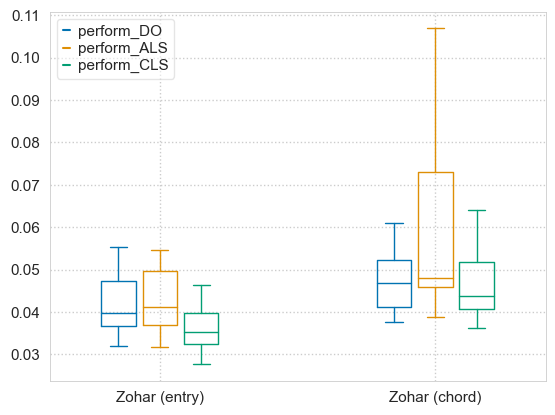
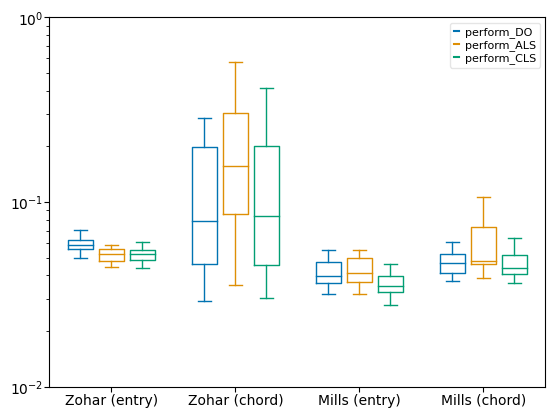
update figure 2c

Changed region(s): [[0.0, 0.0289, 1.0, 0.9831], [0.1225, 0.1446, 0.5207, 0.8964]]

diff --git a/timpute/figures/figure2-3.py b/timpute/figures/figure2-3.py
@@ -88,104 +88,113 @@ def figure23(simulated=True, zohar=True, mills=True):
         
 
 
-def figure2_graph():
-    ax, f = getSetup((12,6), (1,2))
-    dirname = f"timpute/figures/saves/figure2"
+def figure2_graph(simulated=True, real=True):
+    if simulated is True:
+        dirname = f"timpute/figures/saves/figure2"
+        ax, f = getSetup((12,6), (1,2))
+        savename = "/simulated/"
 
-    savename = "/simulated/"
-    
-    for mID, m in enumerate(methods):
-        impType = 'entry'
-        run, _ = loadMultiImputation(impType, m, dirname+savename)
-        # figure 2a
-        q2x_plot(ax[0], methodname = m.__name__,
-                imputed_arr = run.entry_imputed, fitted_arr = run.entry_fitted, total_arr = run.entry_total,
-                plot_impute = True, plot_total = False,
-                showLegend = True,
-                offset = -0.1 + (mID*0.1),
-                color = rgbs(mID, 0.7),
-                logbound = -4)
+        for mID, m in enumerate(methods):
+            impType = 'entry'
+            run, _ = loadMultiImputation(impType, m, dirname+savename)
+            # figure 2a
+            q2x_plot(ax[0], methodname = m.__name__,
+                    imputed_arr = run.entry_imputed, fitted_arr = run.entry_fitted, total_arr = run.entry_total,
+                    plot_impute = True, plot_total = False,
+                    showLegend = True,
+                    offset = -0.1 + (mID*0.1),
+                    color = rgbs(mID, 0.7),
+                    logbound = -4)
+            
+            impType = 'chord'
+            run, _ = loadMultiImputation(impType, m, dirname+savename)
+            # figure 2b
+            q2x_plot(ax[1], methodname = m.__name__,
+                    imputed_arr = run.chord_imputed, fitted_arr = run.chord_fitted, total_arr = run.chord_total,
+                    plot_impute = True, plot_total = False,
+                    showLegend = False,
+                    offset = -0.1 + (mID*0.1),
+                    color = rgbs(mID, 0.7),
+                    logbound = -4)
         
-        impType = 'chord'
-        run, _ = loadMultiImputation(impType, m, dirname+savename)
-        # figure 2b
-        q2x_plot(ax[1], methodname = m.__name__,
-                imputed_arr = run.chord_imputed, fitted_arr = run.chord_fitted, total_arr = run.chord_total,
-                plot_impute = True, plot_total = False,
-                showLegend = False,
-                offset = -0.1 + (mID*0.1),
-                color = rgbs(mID, 0.7),
-                logbound = -4)
-
-    f.savefig(dirname+'.png', bbox_inches="tight", format='png')
+        dirname = f"timpute/figures/saves/figure2"
+        f.savefig(dirname+'.png', bbox_inches="tight", format='png')
     
+
     #################################
 
-    # figure 2c
-    savename = "/zohar/"
-    data = dict()
-
-    impType = 'entry'
-    for mID, m in enumerate(methods):
-        tmplist = list()
-        run, _ = loadImputation(impType, m, dirname+savename)
-        impMatrix = run.entry_imputed
-        impDist = impMatrix[:, np.median(impMatrix, axis=0).argmin()]
-        tmplist.append(impDist)
-        data[m.__name__] = tmplist
-        print(np.median(impMatrix, axis=0).argmin())
-        # 7, 7, 7
-
-    impType = 'chord'
-    for mID, m in enumerate(methods):
-        run, _ = loadImputation(impType, m, dirname+savename)
-        impMatrix = run.chord_imputed
-        impDist = impMatrix[:, np.median(impMatrix, axis=0).argmin()]
-        data[m.__name__].append(impDist)
-        print(np.median(impMatrix, axis=0).argmin())
-        # 6, 2, 6       
     
-    savename = "/mills/"
+    if real is True:
+        # figure 2c
+        dirname = f"timpute/figures/saves/figure2"
+        savename = "/zohar/"
+        data = dict()
 
-    impType = 'entry'
-    for mID, m in enumerate(methods):
-        tmplist = list()
-        run, _ = loadImputation(impType, m, dirname+savename)
-        impMatrix = run.entry_imputed
-        impDist = impMatrix[:, np.median(impMatrix, axis=0).argmin()]
-        tmplist.append(impDist)
-        data[m.__name__] = tmplist
-        print(np.median(impMatrix, axis=0).argmin())
-        # 7, 4, 7
+        impType = 'entry'
+        for mID, m in enumerate(methods):
+            tmplist = list()
+            run, _ = loadImputation(impType, m, dirname+savename)
+            impMatrix = run.entry_imputed
+            impDist = impMatrix[:, np.median(impMatrix, axis=0).argmin()]
+            tmplist.append(impDist)
+            data[m.__name__] = tmplist
+            print(np.median(impMatrix, axis=0).argmin())
+            # 7, 7, 7
 
-    impType = 'chord'
-    for mID, m in enumerate(methods):
-        run, _ = loadImputation(impType, m, dirname+savename)
-        impMatrix = run.chord_imputed
-        impDist = impMatrix[:, np.median(impMatrix, axis=0).argmin()]
-        data[m.__name__].append(impDist)
-        print(np.median(impMatrix, axis=0).argmin())
-        # 6, 3, 5
+        impType = 'chord'
+        for mID, m in enumerate(methods):
+            run, _ = loadImputation(impType, m, dirname+savename)
+            impMatrix = run.chord_imputed
+            impDist = impMatrix[:, np.median(impMatrix, axis=0).argmin()]
+            data[m.__name__].append(impDist)
+            print(np.median(impMatrix, axis=0).argmin())
+            # 6, 2, 6       
 
-    plt.figure()
-    ticks = ['Zohar (entry)', 'Zohar (chord)', 'Mills (entry)', 'Mills (chord)']
+        savename = "/mills/"
 
-    bar_spacing = 0.3
-    bar_width = 0.25
-    exp_spacing = 2
-    bpDO = plt.boxplot(data['perform_DO'], positions=np.array(range(len(data['perform_DO']))) * exp_spacing - bar_spacing, sym='', widths=bar_width)
-    bpALS = plt.boxplot(data['perform_ALS'], positions=np.array(range(len(data['perform_ALS']))) * exp_spacing, sym='', widths=bar_width)
-    bpCLS = plt.boxplot(data['perform_CLS'], positions=np.array(range(len(data['perform_CLS']))) * exp_spacing + bar_spacing, sym='', widths=bar_width)
-    set_boxplot_color(bpDO, rgbs(0))
-    set_boxplot_color(bpALS, rgbs(1))
-    set_boxplot_color(bpCLS, rgbs(2))
-    plt.xticks(range(0, len(ticks) * exp_spacing, exp_spacing), ticks)
+        impType = 'entry'
+        for mID, m in enumerate(methods):
+            tmplist = list()
+            run, _ = loadImputation(impType, m, dirname+savename)
+            impMatrix = run.entry_imputed
+            impDist = impMatrix[:, np.median(impMatrix, axis=0).argmin()]
+            tmplist.append(impDist)
+            data[m.__name__].append(impDist)
+            print(np.median(impMatrix, axis=0).argmin())
+            # 7, 4, 7
 
-    for i,m in enumerate(methods):
-        plt.plot([], c=rgbs(i), label=m.__name__)
-    plt.legend()
+        impType = 'chord'
+        for mID, m in enumerate(methods):
+            run, _ = loadImputation(impType, m, dirname+savename)
+            impMatrix = run.chord_imputed
+            impDist = impMatrix[:, np.median(impMatrix, axis=0).argmin()]
+            data[m.__name__].append(impDist)
+            print(np.median(impMatrix, axis=0).argmin())
+            # 6, 3, 5
 
-    plt.savefig(dirname+'c.png', bbox_inches="tight", format='png')
+        plt.figure()
+        ticks = ['Zohar (entry)', 'Zohar (chord)', 'Mills (entry)', 'Mills (chord)']
+
+        bar_spacing = 0.5
+        bar_width = 0.4
+        exp_spacing = 2
+        bpDO = plt.boxplot(data['perform_DO'], positions=np.array(range(len(data['perform_DO']))) * exp_spacing - bar_spacing, sym='', widths=bar_width)
+        bpALS = plt.boxplot(data['perform_ALS'], positions=np.array(range(len(data['perform_ALS']))) * exp_spacing, sym='', widths=bar_width)
+        bpCLS = plt.boxplot(data['perform_CLS'], positions=np.array(range(len(data['perform_CLS']))) * exp_spacing + bar_spacing, sym='', widths=bar_width)
+        set_boxplot_color(bpDO, rgbs(0))
+        set_boxplot_color(bpALS, rgbs(1))
+        set_boxplot_color(bpCLS, rgbs(2))
+        plt.xticks(range(0, len(ticks) * exp_spacing, exp_spacing), ticks)
+        plt.xlim(right=7)
+        plt.ylim(1e-2,1)
+        plt.yscale('log')
+
+        for i,m in enumerate(methods):
+            plt.plot([], c=rgbs(i), label=m.__name__)
+        plt.legend()
+
+        dirname = f"timpute/figures/saves/figure2c"
+        plt.savefig(dirname+'.png', bbox_inches="tight", format='png')
 
 
 
@@ -405,5 +414,5 @@ def figure3_graph_expanded():
     f.savefig(dirname+'-expanded.png', bbox_inches="tight", format='png')
 
 # figure23()
-figure2_graph()
+figure2_graph(simulated=False)
 # figure3_graph_expanded()
